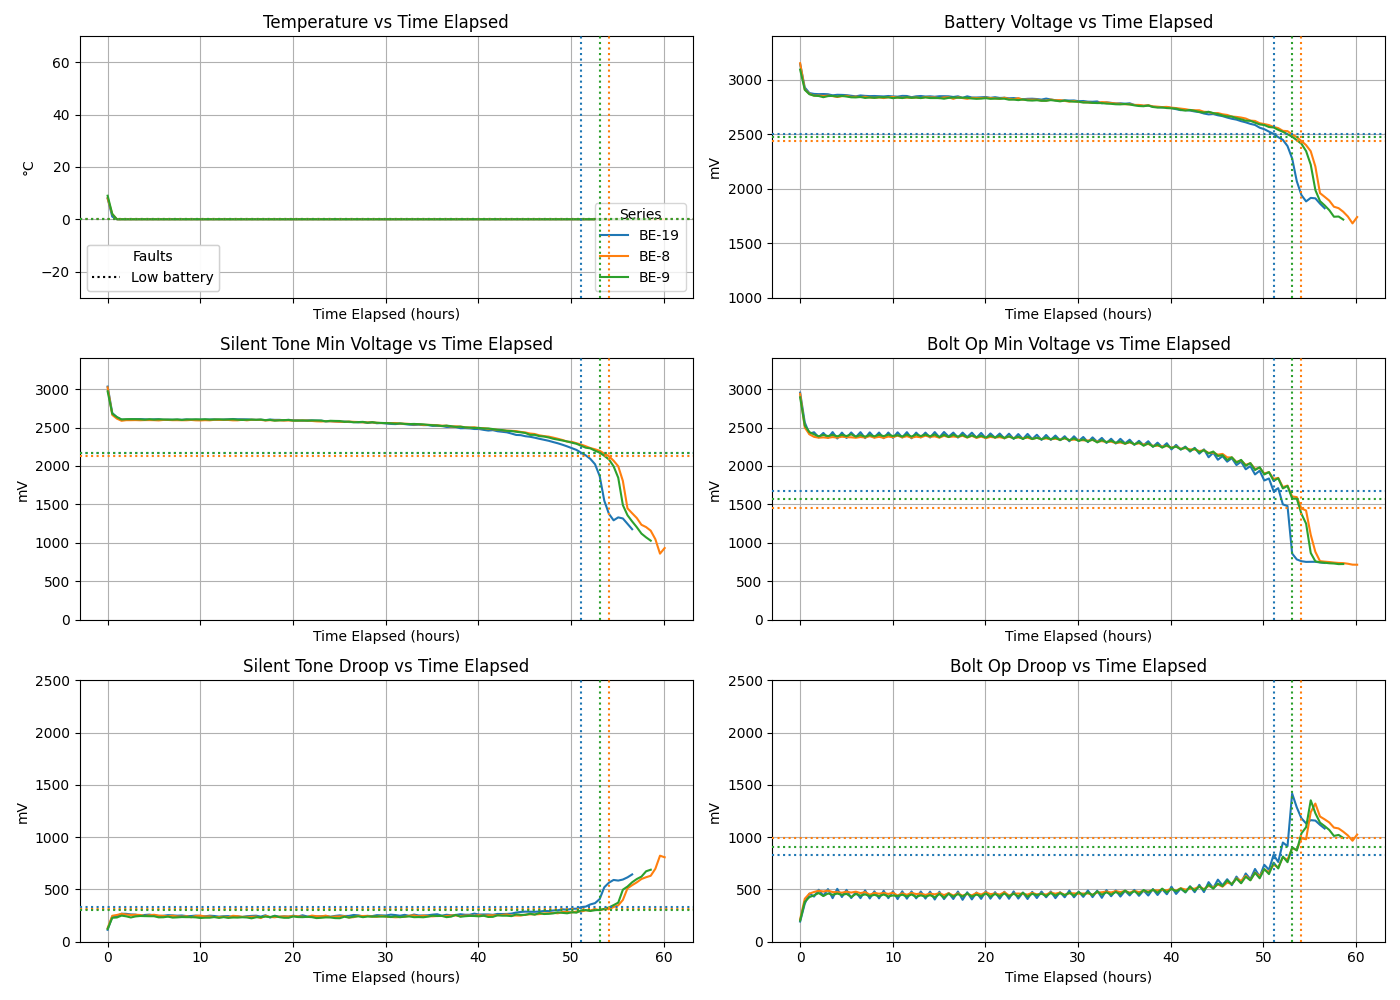
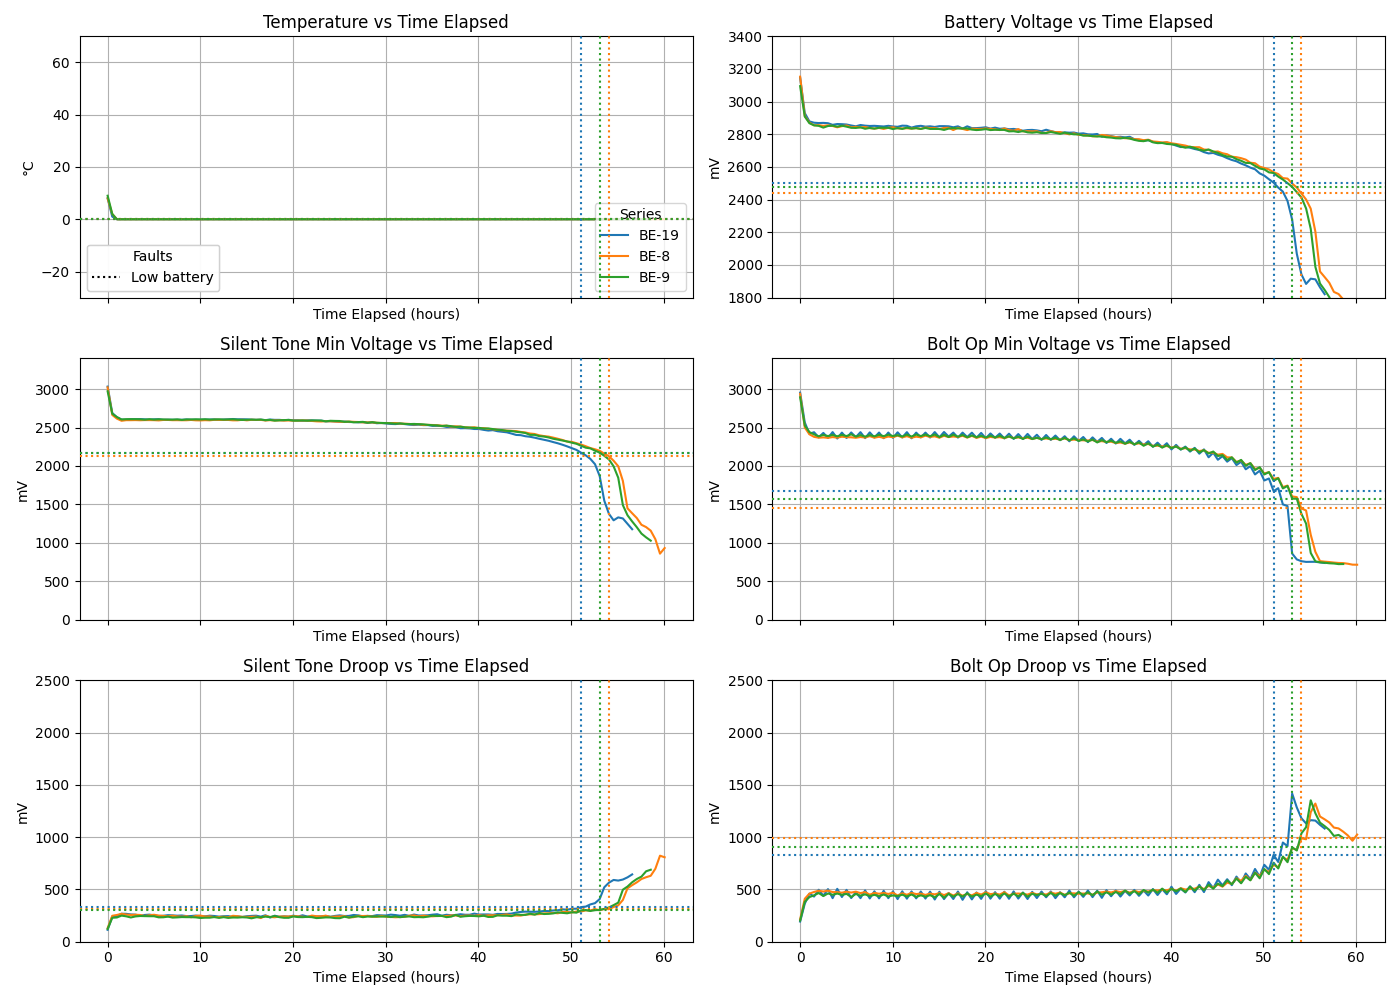
energizer 0c

Changed region(s): [[0.5221, 0.031, 0.9829, 0.31]]

diff --git a/plot_folder.py b/plot_folder.py
@@ -6,7 +6,7 @@ import numpy as np  # NEW
 from matplotlib.lines import Line2D
 
 # CONFIGURATION
-CSV_DIR = "csvs/manufacturers-cross-temp/temp-0c/duracell"
+CSV_DIR = "csvs/manufacturers-cross-temp/temp-0c/energizer"
 CSV_TAG = os.path.basename(os.path.normpath(CSV_DIR))
 PLOT_OUTPUT = f"plots/compare_all_{CSV_DIR.replace("/", "-")}.png"
 COMPUTE_LOW_BATT_BY_ALL_FAULTS=True
